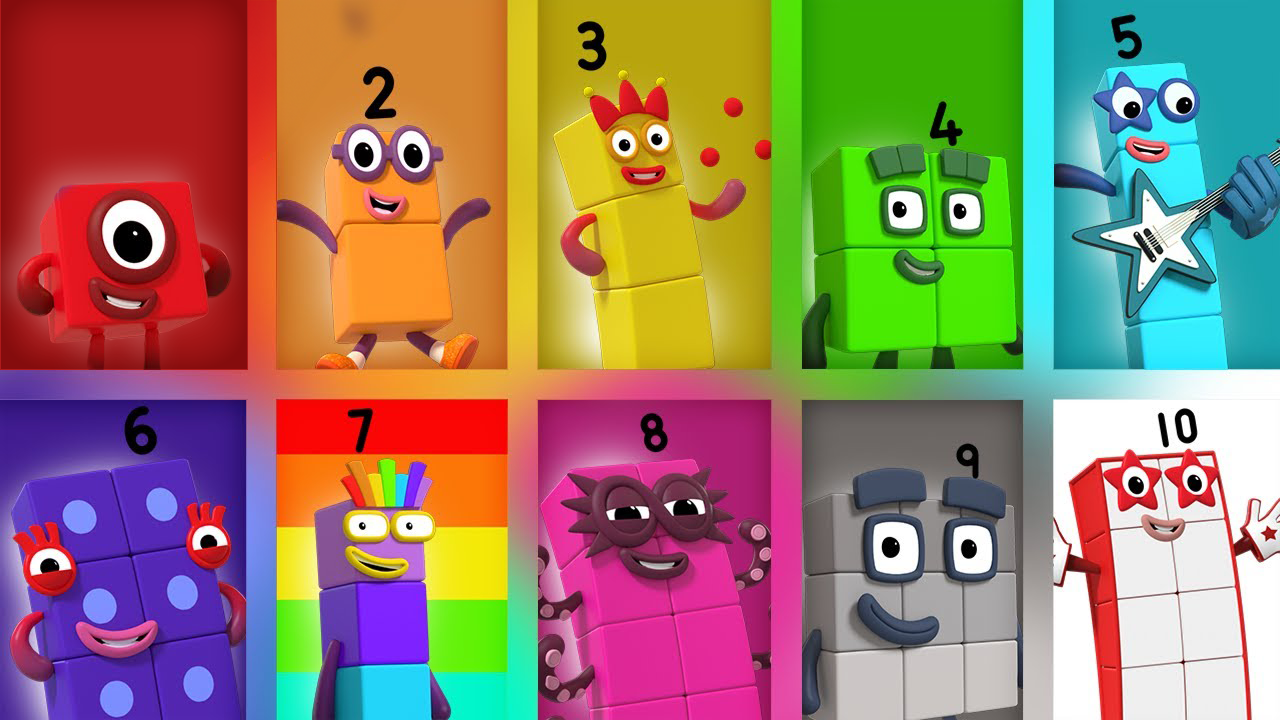
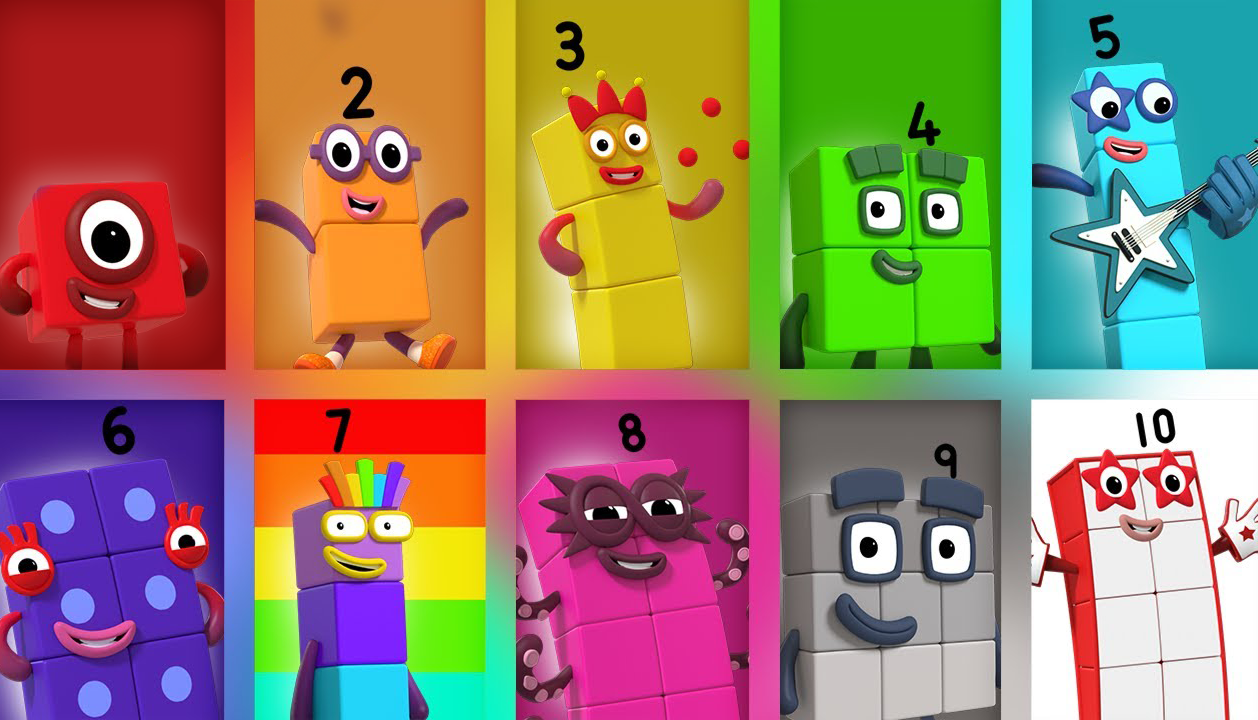
Grilla personajes hecho

diff --git a/TP4/css/grid-colors.css b/TP4/css/grid-colors.css
@@ -21,7 +21,7 @@
   }
   
   .character-grid {
-    width: 280px;
+    width: 290px;
     background-size: contain;
     background-repeat: no-repeat;
     background-position: center center;
@@ -34,56 +34,72 @@
     background-image: url('../assets/img/grid-colors/img-grilla-1.png');
     background-size: cover; 
     background-position: center center;
-    margin-left: 0px;
+    position: relative;
+    top: 0px;
+    left: -5px;
   }
   
   #character-grid-2 {
     background-image: url('../assets/img/grid-colors/img-grilla-2.png');
     background-size: cover; 
     background-position: center center;
-    margin-left: 25px;
+    position: relative;
+    top: 0px;
+    left: -5px;
   }
   
   #character-grid-3 {
     background-image: url('../assets/img/grid-colors/img-grilla-3.png');
     background-size: cover; 
     background-position: center center;
-    margin-left: 20px;
+    position: relative;
+    top: 0px;
+    left: 3px;
   }
 
   #character-grid-4 {
     background-image: url('../assets/img/grid-colors/img-grilla-4.png');
     background-size: cover; 
     background-position: center center;
-    margin-right: 5px;
+    position: relative;
+    top: 0px;
+    left: 10px;
   }
   
   #character-grid-5 {
     background-image: url('../assets/img/grid-colors/img-grilla-5.png');
     background-size: cover; 
     background-position: center center;
-    margin-right: 0px;
+    position: relative;
+    top: 0px;
+    left: 10px;
   }
   
   #character-grid-6 {
     background-image: url('../assets/img/grid-colors/img-grilla-6.png');
     background-size: cover; 
     background-position: center center;
-    margin-left: 0px;
+    position: relative;
+    top: 0px;
+    left: -5px;
   }
 
   #character-grid-7 {
     background-image: url('../assets/img/grid-colors/img-grilla-7.png');
     background-size: cover; 
     background-position: center center;
-    margin-left: 20px;
+    position: relative;
+    top: 0px;
+    left: -10px;
   }
   
   #character-grid-8 {
     background-image: url('../assets/img/grid-colors/img-grilla-8.png');
     background-size: cover; 
     background-position: center center;
-    margin-left: 20px;
+    position: relative;
+    top: 0px;
+    left: -2px;
   }
   
   #character-grid-9 {
